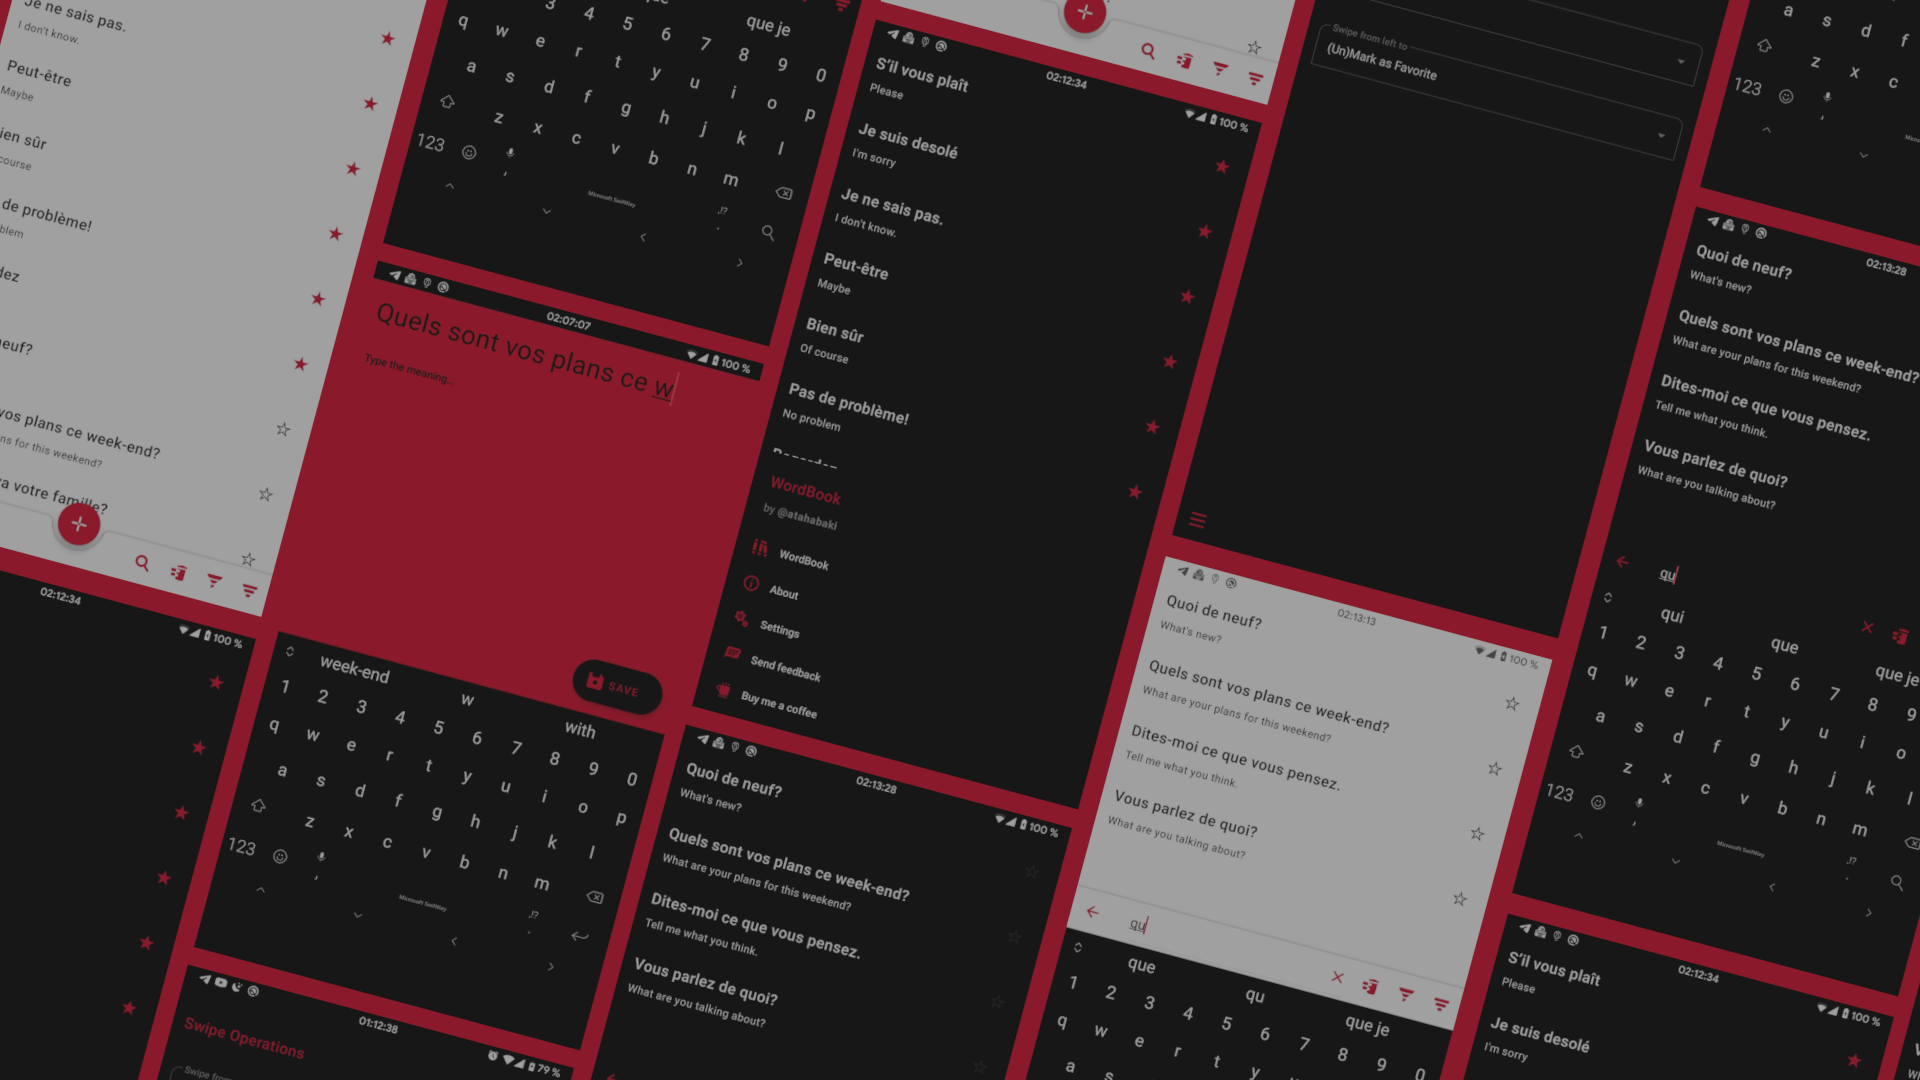
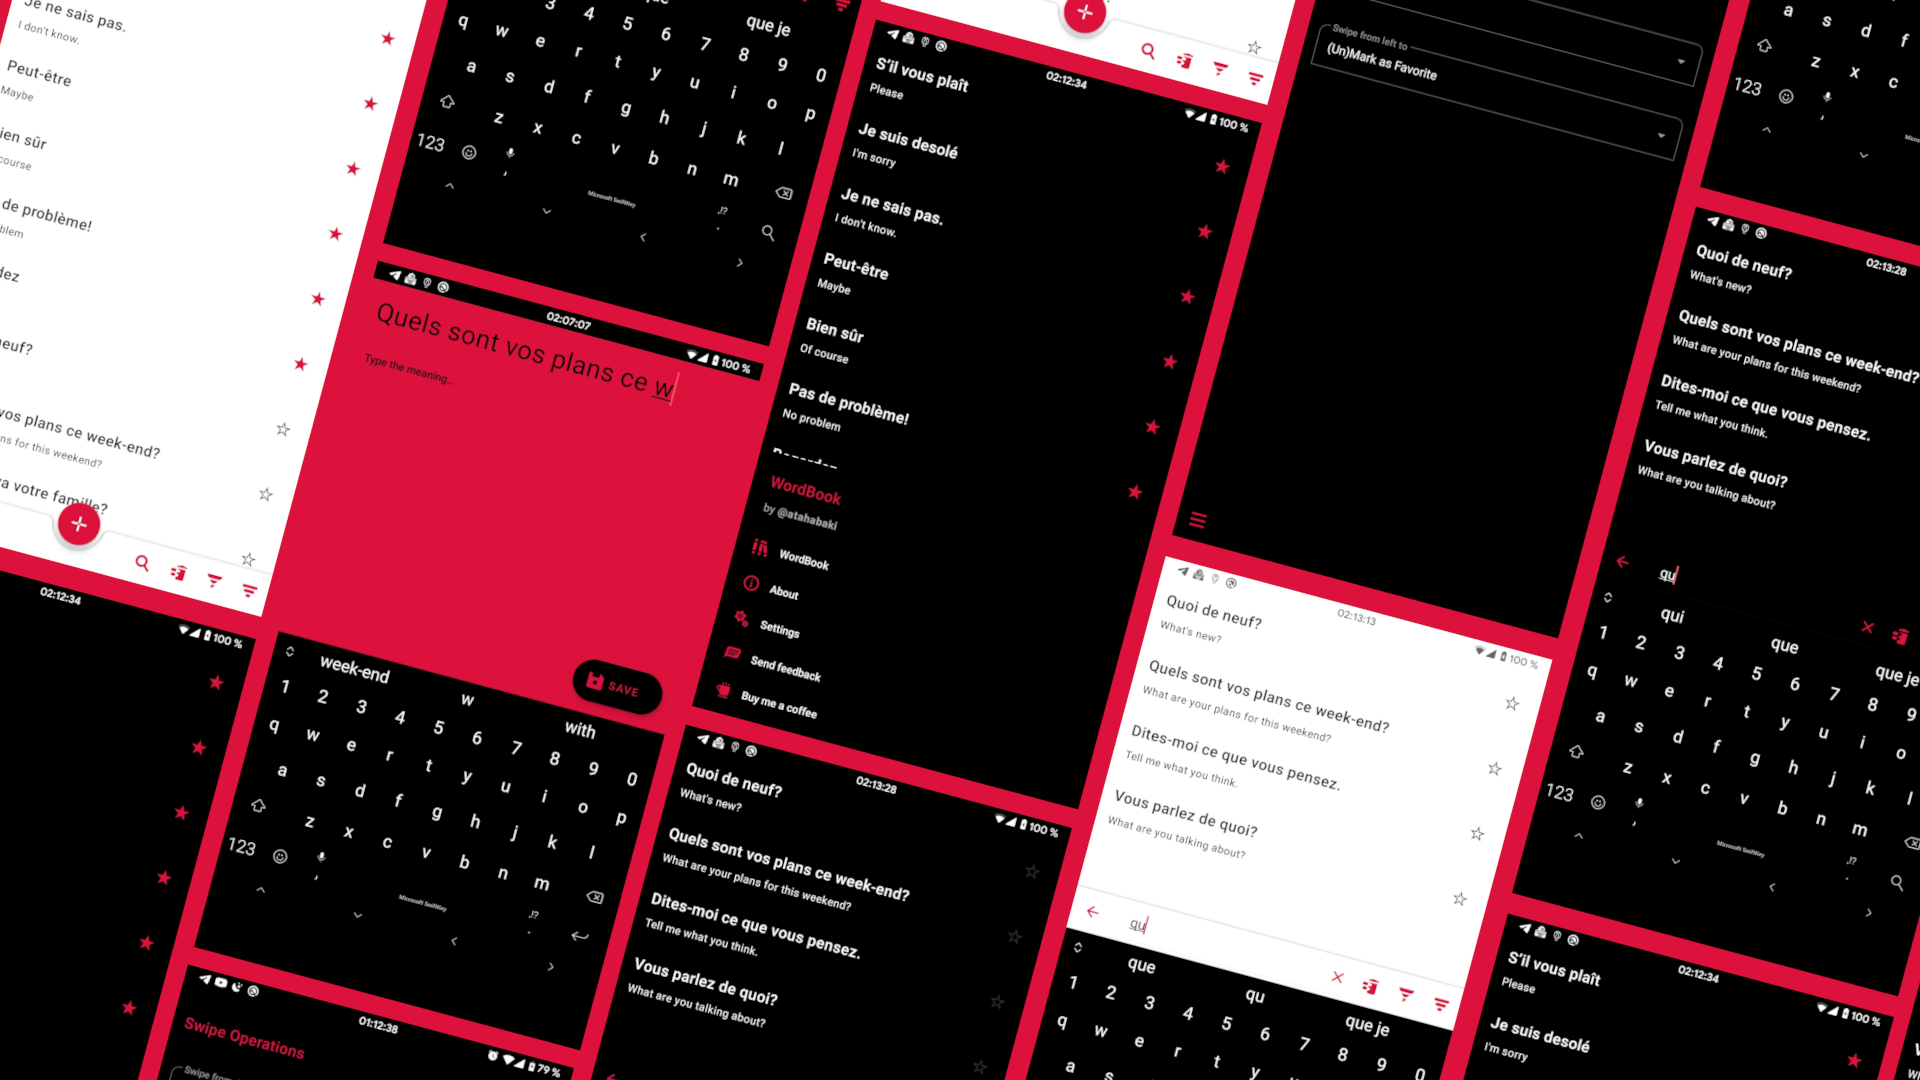
💄 backgrounds changed, caption centered...

diff --git a/css/style.css b/css/style.css
@@ -20,7 +20,7 @@
 #greeter .background {
   width: 100%;
   height: 100vh;
-  background-image: url(../images/background_image.png);
+  background: linear-gradient(135deg, rgba(220,18,20,.95), #000), url(../images/background_image.png);
   background-size: cover;
   background-position: center;
   filter: blur(5px) grayscale(.25);
@@ -49,6 +49,7 @@
   left: 50%;
   display: inline-block;
   transform: translate(-50%, -50%);
+  text-align: center;
 }
 
 #greeter .center h1, h3 {
